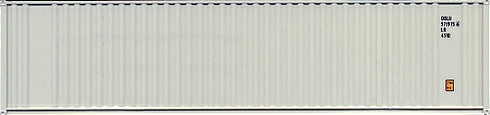
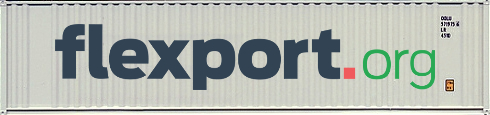
add nav, cursor, instructions; edit images, speed

Changed region(s): [[0.0918, 0.2087, 0.8878, 0.7826]]

diff --git a/index.html b/index.html
@@ -2,25 +2,72 @@
     <head>
         <script src="https://aframe.io/releases/0.8.2/aframe.min.js"></script>
         <script src="https://cdn.rawgit.com/donmccurdy/aframe-extras/v5.1.0/dist/aframe-extras.min.js"></script>
+        <script src="https://unpkg.com/aframe-event-set-component@3.0.3/dist/aframe-event-set-component.min.js"></script>
     </head>
     <body>
         <a-scene>
-            <a-entity id="rig" movement-controls="fly: true; speed: 0.3">
-                <a-entity camera position="0 1.6 0" look-controls></a-entity>
+
+          <a-assets>
+    <img id="logo" src="https://images.ctfassets.net/92fo1e671z6m/2ejzF1tDsjEvaQeTPkey2c/3f5c0690c86a43955d3d7e4d3528496b/Flexport_Mark_-_alternative_white.png">
+          </a-assets>
+            
+          <a-entity id="rig" movement-controls="fly: true; speed: 0.3">
+                <a-camera position="0 1.6 0" look-controls>
+                  <a-cursor></a-cursor>
+                </a-camera>
             </a-entity>
             
-            <!-- <a-collada-model src="https://cdn.glitch.com/c7211f20-bdcb-4f10-813d-85762bf6feed%2Fmodel.dae?v=1619547990185" position="5 -0.5 -14.5" rotation="0 45 0 "></a-collada-model> 
+            <html>
+    <head>
+        <script src="https://aframe.io/releases/0.8.2/aframe.min.js"></script>
+        <script src="https://cdn.rawgit.com/donmccurdy/aframe-extras/v5.1.0/dist/aframe-extras.min.js"></script>
+        <script src="https://unpkg.com/aframe-event-set-component@3.0.3/dist/aframe-event-set-component.min.js"></script>
+    </head>
+    <body>
+        <a-scene>
+
+          <a-assets>
+    <img id="logo" src="https://images.ctfassets.net/92fo1e671z6m/2ejzF1tDsjEvaQeTPkey2c/3f5c0690c86a43955d3d7e4d3528496b/Flexport_Mark_-_alternative_white.png">
+          </a-assets>
+            
+          <a-entity id="rig" movement-controls="fly: true; speed: 0.3">
+                <a-camera position="0 1.6 0" look-controls>
+                  <a-cursor></a-cursor>
+                </a-camera>
+            </a-entity>
+            
+            <a-cylinder position="1 0.75 -3" rotation="0 180 0" radius="0.5" height="1.5" color="#fff" material="src: #logo"
+                event-set__enter="_event: mouseenter; _target: #cylinderText; visible: true"
+                event-set__leave="_event: mouseleave; _target: #cylinderText; visible: false">
+              <a-text id="cylinderText" value="Your Mission: FIND THE PILE OF PPE!! Hint: PPE is NOT in any BONUS scenes. Dot at center of screen is cursor; to navigate to other scenes place cursor on the Circles at right as color changes; click on desktop or move closely and hold cursor steady for 2 seconds in VR. VR works great in headsets and phones from Apple, Oculus, Samsung, Sony, Google including Cardboard" align="center" color="#FFF" visible="false" position="0 -1.05 -0.55"
+                geometry="primitive: plane; width: 4.75" material="color: #333" rotation="0 180 0"></a-text>
+            </a-cylinder>
+            <a-text value="Place Cursor on Logo for Instructions!" position="-2 1.55 -2.55"></a-text>
+          
+            <a-link href="b.html" title="Evergreen Ship" position="5 0.75 -3"></a-link>
+            <a-link href="c.html" title="Anna Maersk Ship" position="10 0.75 -3"></a-link>
+            <a-link href="d.html" title="BSC Angelo Ship" position="15 0.75 -3"></a-link>
+            <a-link href="e.html" title="BONUS Gantry Crane - high polygon count!" position="20 0.75 -3"></a-link>
+            <a-link href="f.html" title="BONUS Safmarine Illovo Ship - tricky to navigate" position="25 0.75 -3"></a-link>
+          
+            <!--
 
             <a-collada-model src="assets/maersk_ship/model.dae" position="-15 -10.5 8.5" rotation="0 90 0 "></a-collada-model> -->
  
             <a-collada-model src="https://raw.githubusercontent.com/eesee/cargo-ship-exp/main/assets/maersk_ship/model.dae" position="-15 -10.5 8.5" rotation="0 90 0 "></a-collada-model>
- <!--
-            <a-collada-model src="assets/anna_maersk_ship/model.dae" position="-05 -10.5 8.5" rotation="0 90 0 "></a-collada-model>
-            <a-collada-model src="assets/evergreen_ship/model.dae" position="15 -10.5 8.5" rotation="0 90 0 "></a-collada-model>
-            <a-collada-model src="assets/safmarine_illovo_ship/model.dae" position="35 -10.5 8.5" rotation="0 90 0 "></a-collada-model>
-            <a-collada-model src="assets/bsc_angelo_ship/model.dae" position="55 -10.5 8.5" rotation="0 90 0 "></a-collada-model>
 
-            <a-collada-model src="assets/crane/model.dae" position="55 -5 8.5" rotation="0 270 0" scale="0.5 0.5 0.5"></a-collada-model>-->
+            <a-sky src="https://raw.githubusercontent.com/eesee/cargo-ship-exp/main/assets/sandbar.jpg" color="#ECECEC"></a-sky>            
+            
+            <!-- <a-plane rotation="-90 0 0" width="3" height="3" color="#7BC8A4"></a-plane> -->
+        </a-scene>
+    </body>
+</html>
+          
+            <!--
+
+            <a-collada-model src="assets/maersk_ship/model.dae" position="-15 -10.5 8.5" rotation="0 90 0 "></a-collada-model> -->
+ 
+            <a-collada-model src="https://raw.githubusercontent.com/eesee/cargo-ship-exp/main/assets/maersk_ship/model.dae" position="-15 -10.5 8.5" rotation="0 90 0 "></a-collada-model>
 
             <a-sky src="https://raw.githubusercontent.com/eesee/cargo-ship-exp/main/assets/sandbar.jpg" color="#ECECEC"></a-sky>            
             

diff --git a/d.html b/d.html
@@ -8,8 +8,22 @@
             <a-entity id="rig" movement-controls="fly: true; speed: 0.3">
                 <a-entity camera position="0 1.6 0" look-controls></a-entity>
             </a-entity>
+
+            <a-cylinder position="1 0.75 -3" rotation="0 180 0" radius="0.5" height="1.5" color="#fff" material="src: #logo"
+                event-set__enter="_event: mouseenter; _target: #cylinderText; visible: true"
+                event-set__leave="_event: mouseleave; _target: #cylinderText; visible: false">
+              <a-text id="cylinderText" value="Your Mission: FIND THE PILE OF PPE!! Hint: PPE is NOT in any BONUS scenes. Dot at center of screen is cursor; to navigate to other scenes place cursor on the Circles at right as color changes; click on desktop or move closely and hold cursor steady for 2 seconds in VR. VR works great in headsets and phones from Apple, Oculus, Samsung, Sony, Google including Cardboard" align="center" color="#FFF" visible="false" position="0 -1.05 -0.55"
+                geometry="primitive: plane; width: 4.75" material="color: #333" rotation="0 180 0"></a-text>
+            </a-cylinder>
+            <a-text value="Place Cursor on Logo for Instructions!" position="-2 1.55 -2.55"></a-text>
+          
+            <a-link href="index.html" title="Maersk Ship" position="5 0.75 -3"></a-link>
+            <a-link href="b.html" title="Evergreen Ship" position="10 0.75 -3"></a-link>
+            <a-link href="c.html" title="Anna Maersk Ship" position="15 0.75 -3"></a-link>
+            <a-link href="e.html" title="BONUS Gantry Crane - high polygon count!" position="20 0.75 -3"></a-link>
+            <a-link href="f.html" title="BONUS Safmarine Illovo Ship - tricky to navigate" position="25 0.75 -3"></a-link>
             
-            <a-collada-model src="https://raw.githubusercontent.com/eesee/cargo-ship-exp/main/assets/safmarine_illovo_ship/model.dae" position="-15 -10.5 8.5" rotation="0 90 0 "></a-collada-model>
+            <a-collada-model src="https://raw.githubusercontent.com/eesee/cargo-ship-exp/main/assets/bsc_angelo_ship/model.dae" position="-15 -10.5 8.5" rotation="0 90 0 "></a-collada-model>
 
             <a-sky src="https://raw.githubusercontent.com/eesee/cargo-ship-exp/main/assets/sandbar.jpg" color="#ECECEC"></a-sky>            
         </a-scene>

diff --git a/e.html b/e.html
@@ -8,8 +8,22 @@
             <a-entity id="rig" movement-controls="fly: true; speed: 0.3">
                 <a-entity camera position="0 1.6 0" look-controls></a-entity>
             </a-entity>
+
+            <a-cylinder position="1 0.75 -3" rotation="0 180 0" radius="0.5" height="1.5" color="#fff" material="src: #logo"
+                event-set__enter="_event: mouseenter; _target: #cylinderText; visible: true"
+                event-set__leave="_event: mouseleave; _target: #cylinderText; visible: false">
+              <a-text id="cylinderText" value="Your Mission: FIND THE PILE OF PPE!! Hint: PPE is NOT in any BONUS scenes. Dot at center of screen is cursor; to navigate to other scenes place cursor on the Circles at right as color changes; click on desktop or move closely and hold cursor steady for 2 seconds in VR. VR works great in headsets and phones from Apple, Oculus, Samsung, Sony, Google including Cardboard" align="center" color="#FFF" visible="false" position="0 -1.05 -0.55"
+                geometry="primitive: plane; width: 4.75" material="color: #333" rotation="0 180 0"></a-text>
+            </a-cylinder>
+            <a-text value="Place Cursor on Logo for Instructions!" position="-2 1.55 -2.55"></a-text>
+          
+            <a-link href="index.html" title="Maersk Ship" position="5 0.75 -3"></a-link>
+            <a-link href="b.html" title="Evergreen Ship" position="10 0.75 -3"></a-link>
+            <a-link href="c.html" title="Anna Maersk Ship" position="15 0.75 -3"></a-link>
+            <a-link href="d.html" title="BSC Angelo Ship" position="20 0.75 -3"></a-link>
+            <a-link href="f.html" title="BONUS Safmarine Illovo Ship - tricky to navigate" position="25 0.75 -3"></a-link>
             
-            <a-collada-model src="https://raw.githubusercontent.com/eesee/cargo-ship-exp/main/assets/bsc_angelo_ship/model.dae" position="-15 -10.5 8.5" rotation="0 90 0 "></a-collada-model>
+            <a-collada-model src="https://raw.githubusercontent.com/eesee/cargo-ship-exp/main/assets/crane/model.dae" position="75 -10.5 8.5" rotation="0 90 0 " scale="0.5 0.5 0.5"></a-collada-model>
 
             <a-sky src="https://raw.githubusercontent.com/eesee/cargo-ship-exp/main/assets/sandbar.jpg" color="#ECECEC"></a-sky>            
         </a-scene>

diff --git a/f.html b/f.html
@@ -9,7 +9,21 @@
                 <a-entity camera position="0 1.6 0" look-controls></a-entity>
             </a-entity>
             
-            <a-collada-model src="https://raw.githubusercontent.com/eesee/cargo-ship-exp/main/assets/crane/model.dae" position="-15 -10.5 8.5" rotation="0 90 0 "></a-collada-model>
+            <a-cylinder position="1 0.75 -3" rotation="0 180 0" radius="0.5" height="1.5" color="#fff" material="src: #logo"
+                event-set__enter="_event: mouseenter; _target: #cylinderText; visible: true"
+                event-set__leave="_event: mouseleave; _target: #cylinderText; visible: false">
+              <a-text id="cylinderText" value="Your Mission: FIND THE PILE OF PPE!! Hint: PPE is NOT in any BONUS scenes. Dot at center of screen is cursor; to navigate to other scenes place cursor on the Circles at right as color changes; click on desktop or move closely and hold cursor steady for 2 seconds in VR. VR works great in headsets and phones from Apple, Oculus, Samsung, Sony, Google including Cardboard" align="center" color="#FFF" visible="false" position="0 -1.05 -0.55"
+                geometry="primitive: plane; width: 4.75" material="color: #333" rotation="0 180 0"></a-text>
+            </a-cylinder>
+            <a-text value="Place Cursor on Logo for Instructions!" position="-2 1.55 -2.55"></a-text>
+          
+            <a-link href="index.html" title="Maersk Ship" position="5 0.75 -3"></a-link>
+            <a-link href="b.html" title="Evergreen Ship" position="10 0.75 -3"></a-link>
+            <a-link href="c.html" title="Anna Maersk Ship" position="15 0.75 -3"></a-link>
+            <a-link href="d.html" title="BSC Angelo Ship" position="20 0.75 -3"></a-link>
+            <a-link href="e.html" title="BONUS Gantry Crane - high polygon count!" position="25 0.75 -3"></a-link>
+
+            <a-collada-model src="https://raw.githubusercontent.com/eesee/cargo-ship-exp/main/assets/safmarine_illovo_ship/model.dae" position="-15 -10.5 8.5" rotation="0 90 0 "></a-collada-model>
 
             <a-sky src="https://raw.githubusercontent.com/eesee/cargo-ship-exp/main/assets/sandbar.jpg" color="#ECECEC"></a-sky>            
         </a-scene>

diff --git a/c.html b/c.html
@@ -5,9 +5,23 @@
     </head>
     <body>
         <a-scene>
-            <a-entity id="rig" movement-controls="fly: true; speed: 0.3">
+            <a-entity id="rig" movement-controls="fly: true; speed: 0.9">
                 <a-entity camera position="0 1.6 0" look-controls></a-entity>
             </a-entity>
+
+            <a-cylinder position="1 0.75 -3" rotation="0 180 0" radius="0.5" height="1.5" color="#fff" material="src: #logo"
+                event-set__enter="_event: mouseenter; _target: #cylinderText; visible: true"
+                event-set__leave="_event: mouseleave; _target: #cylinderText; visible: false">
+              <a-text id="cylinderText" value="Your Mission: FIND THE PILE OF PPE!! Hint: PPE is NOT in any BONUS scenes. Dot at center of screen is cursor; to navigate to other scenes place cursor on the Circles at right as color changes; click on desktop or move closely and hold cursor steady for 2 seconds in VR. VR works great in headsets and phones from Apple, Oculus, Samsung, Sony, Google including Cardboard" align="center" color="#FFF" visible="false" position="0 -1.05 -0.55"
+                geometry="primitive: plane; width: 4.75" material="color: #333" rotation="0 180 0"></a-text>
+            </a-cylinder>
+            <a-text value="Place Cursor on Logo for Instructions!" position="-2 1.55 -2.55"></a-text>
+          
+            <a-link href="index.html" title="Maersk Ship" position="5 0.75 -3"></a-link>
+            <a-link href="b.html" title="Evergreen Ship" position="10 0.75 -3"></a-link>
+            <a-link href="d.html" title="BSC Angelo Ship" position="15 0.75 -3"></a-link>
+            <a-link href="e.html" title="BONUS Gantry Crane - high polygon count!" position="20 0.75 -3"></a-link>
+            <a-link href="f.html" title="BONUS Safmarine Illovo Ship - tricky to navigate" position="25 0.75 -3"></a-link>
             
             <a-collada-model src="https://raw.githubusercontent.com/eesee/cargo-ship-exp/main/assets/anna_maersk_ship/model.dae" position="-15 -10.5 8.5" rotation="0 90 0 "></a-collada-model>
 

diff --git a/b.html b/b.html
@@ -8,6 +8,20 @@
             <a-entity id="rig" movement-controls="fly: true; speed: 0.3">
                 <a-entity camera position="0 1.6 0" look-controls></a-entity>
             </a-entity>
+
+            <a-cylinder position="1 0.75 -3" rotation="0 180 0" radius="0.5" height="1.5" color="#fff" material="src: #logo"
+                event-set__enter="_event: mouseenter; _target: #cylinderText; visible: true"
+                event-set__leave="_event: mouseleave; _target: #cylinderText; visible: false">
+              <a-text id="cylinderText" value="Your Mission: FIND THE PILE OF PPE!! Hint: PPE is NOT in any BONUS scenes. Dot at center of screen is cursor; to navigate to other scenes place cursor on the Circles at right as color changes; click on desktop or move closely and hold cursor steady for 2 seconds in VR. VR works great in headsets and phones from Apple, Oculus, Samsung, Sony, Google including Cardboard" align="center" color="#FFF" visible="false" position="0 -1.05 -0.55"
+                geometry="primitive: plane; width: 4.75" material="color: #333" rotation="0 180 0"></a-text>
+            </a-cylinder>
+            <a-text value="Place Cursor on Logo for Instructions!" position="-2 1.55 -2.55"></a-text>
+          
+            <a-link href="index.html" title="Maersk Ship" position="5 0.75 -3"></a-link>
+            <a-link href="c.html" title="Anna Maersk Ship" position="10 0.75 -3"></a-link>
+            <a-link href="d.html" title="BSC Angelo Ship" position="15 0.75 -3"></a-link>
+            <a-link href="e.html" title="BONUS Gantry Crane - high polygon count!" position="20 0.75 -3"></a-link>
+            <a-link href="f.html" title="BONUS Safmarine Illovo Ship - tricky to navigate" position="25 0.75 -3"></a-link>
             
             <a-collada-model src="https://raw.githubusercontent.com/eesee/cargo-ship-exp/main/assets/evergreen_ship/model.dae" position="-15 -10.5 8.5" rotation="0 90 0 "></a-collada-model>
 
